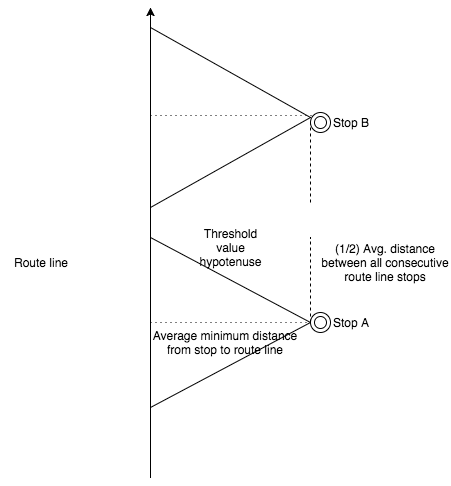
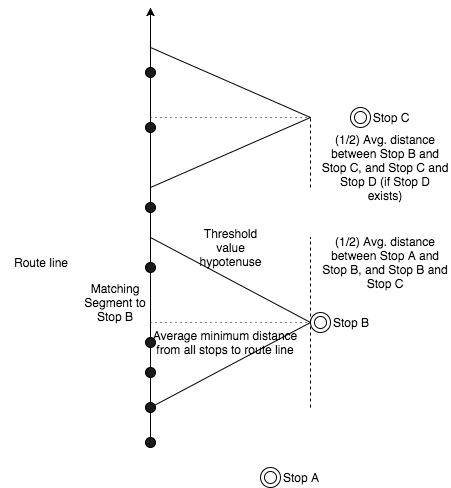
updating threshold explanation to match changes

diff --git a/documentation/datastore/routes-and-route-stop-patterns.html b/documentation/datastore/routes-and-route-stop-patterns.html
@@ -1000,7 +1000,7 @@ layout: documentation
 <h5>Distance calculation heuristic algorithm</h5>
 <p>RouteStopPatterns' <code>stop_distances</code> are useful for cutting a slice of the route line between two stops for visualization, among other reasons. Each <a href="schedules.html"><code>ScheduleStopPair</code></a> has an associated RouteStopPattern. In addition, two attributes have been added to ScheduleStopPair: <code>origin_distance_traveled</code> and <code>destination_distance_traveled</code>. These are the distances, in meters rounded to the nearest decimeter, of the origin and destination stops along the line geometry from the start point.</p>
 
-<p>The algorithm for calculating <code>stop_distances</code> must first solve the problem of matching stops to a set of optimal segments of the route line. A set of segment matches for the RSP stops is optimal if the distances between the stops and the nearest points of the chosen segments are minimized, with the constraint that distances <i>along</i> the route line of the nearest points of the chosen segments (<code>stop_distances</code>) are increasing for each subsequent stop.</p><p>The current algorithm runs as follows, with some details omitted. First, it computes reasonable segment matching possibilities for each stop based on a threshold of how far the stop is from the segment. Then for each stop in order, the algorithm loops through each segment match possibility in sorted order of distance from the line, until it finds a list of all subsequent stop distances along the line ahead that are in increasing order. Each stop's segment evaluation results in a recursive call to the next stop. Recursion is valuable because a poor segment choice for one stop can cause inaccuracies that aren't apparent until much later along the stop pattern for other stops.</p><p>The distance threshold for segment matches is computed for each RouteStopPattern, and its value is computed as follows. Imagine the two triangle legs formed by the average of all stops' minimum distance to the line and half the average distance between two neighboring stops. The threshold value is the length, in meters, of the hypotenuse formed from these legs.</p>
+<p>The algorithm for calculating <code>stop_distances</code> must first solve the problem of matching stops to a set of optimal segments of the route line. A set of segment matches for the RSP stops is optimal if the distances between the stops and the nearest points of the chosen segments are minimized, with the constraint that distances <i>along</i> the route line of the nearest points of the chosen segments (<code>stop_distances</code>) are increasing for each subsequent stop.</p><p>The current algorithm runs as follows, with some details omitted. First, it computes reasonable segment matching possibilities for each stop based on a threshold of how far the stop is from the segment. Then for each stop in order, the algorithm loops through each segment match possibility in sorted order of distance from the line, until it finds a list of all subsequent stop distances along the line ahead that are in increasing order. Each stop's segment evaluation results in a recursive call to the next stop. Recursion is valuable because a poor segment choice for one stop can cause inaccuracies that aren't apparent until much later along the stop pattern for other stops.</p><p>The distance threshold for segment matches is computed for each RouteStopPattern, and its value is computed as follows. Imagine the two triangle legs formed by the average of all stops' minimum distance to the line and half the average distance between the two neighboring stops on either side of a single stop (so the threshold value can be different for each stop). The threshold value is the length, in meters, of the hypotenuse formed from these legs.</p>
 
 <img alt="Threshold computation" src="/images/transitland-route-geometries/triangle.png" height="400" width="400"></a>
 
